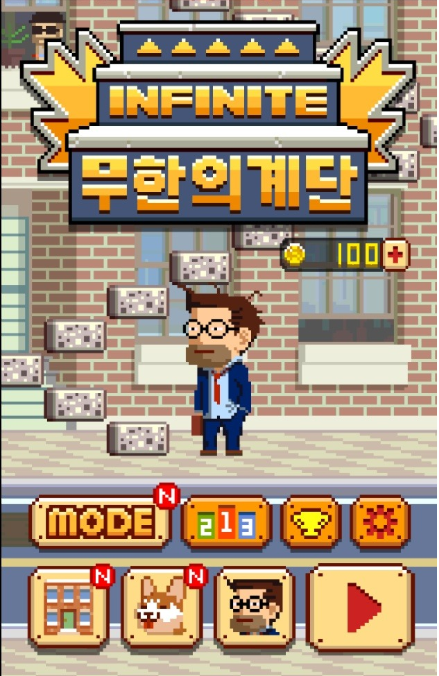
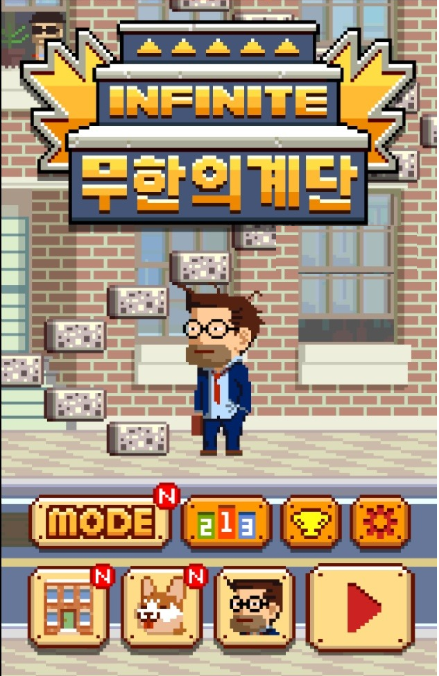
Simplify menu and add dash movement

Changed region(s): [[0.6219, 0.3107, 0.9476, 0.4038]]

diff --git a/public/styles.css b/public/styles.css
@@ -237,7 +237,7 @@ button:active {
   width: 68px;
   height: 126px;
   --flip: 1;
-  --hop-x: 0px;
+  --dash-flip: 1;
   --hop-half: 0px;
   --hop-rot: 0deg;
   transform: translateX(-50%);
@@ -256,57 +256,52 @@ button:active {
   filter: drop-shadow(3px 4px 0 rgba(37, 23, 31, 0.28));
   transform: scaleX(var(--flip));
   transform-origin: center bottom;
+  transition: opacity 60ms steps(1, end);
 }
 
-.player::before {
+.player::after {
   position: absolute;
-  left: -38px;
-  top: 38px;
-  z-index: 1;
-  width: 64px;
-  height: 88px;
-  background:
-    linear-gradient(135deg, transparent 0 20%, rgba(62, 224, 255, 0.8) 21% 30%, transparent 31% 38%, rgba(57, 133, 255, 0.76) 39% 48%, transparent 49%),
-    linear-gradient(135deg, transparent 0 42%, rgba(158, 255, 255, 0.8) 43% 59%, transparent 60%);
-  clip-path: polygon(84% 0, 100% 0, 44% 100%, 26% 100%);
+  left: -65px;
+  bottom: -34px;
+  z-index: 3;
+  width: 154px;
+  height: 190px;
+  background: url("assets/office-worker-dash.png") center / contain no-repeat;
   content: "";
   image-rendering: pixelated;
   opacity: 0;
-  transform: skewY(-12deg);
+  transform: scaleX(var(--dash-flip));
+  transform-origin: center bottom;
+  filter: drop-shadow(4px 5px 0 rgba(37, 23, 31, 0.26));
   pointer-events: none;
 }
 
 .player.face-left {
   --flip: 1;
+  --dash-flip: -1;
 }
 
 .player.face-right {
   --flip: -1;
+  --dash-flip: 1;
 }
 
 .player.hop-left {
-  animation: stair-hop 170ms steps(3, end);
+  animation: stair-hop 150ms steps(2, end);
 }
 
 .player.hop-right {
-  animation: stair-hop 170ms steps(3, end);
+  animation: stair-hop 150ms steps(2, end);
 }
 
-.player.face-left::before {
-  left: auto;
-  right: -38px;
-  transform: scaleX(-1) skewY(-12deg);
+.player.hop-left img,
+.player.hop-right img {
+  opacity: 0;
 }
 
-.player.face-right::before {
-  left: -38px;
-  right: auto;
-  transform: skewY(-12deg);
-}
-
-.player.hop-left::before,
-.player.hop-right::before {
-  animation: trail-flash 170ms steps(3, end);
+.player.hop-left::after,
+.player.hop-right::after {
+  animation: dash-sprite 150ms steps(2, end);
 }
 
 .player.fall {
@@ -318,12 +313,8 @@ button:active {
     transform: translateX(-50%) translateY(0) rotate(0);
   }
 
-  33% {
-    transform: translateX(calc(-50% + var(--hop-half))) translateY(-22px) rotate(var(--hop-rot));
-  }
-
-  66% {
-    transform: translateX(calc(-50% + var(--hop-x))) translateY(-36px) rotate(var(--hop-rot));
+  45% {
+    transform: translateX(calc(-50% + var(--hop-half))) translateY(-5px) rotate(var(--hop-rot));
   }
 
   100% {
@@ -331,15 +322,15 @@ button:active {
   }
 }
 
-@keyframes trail-flash {
+@keyframes dash-sprite {
   0%,
   100% {
     opacity: 0;
   }
 
-  33%,
-  66% {
-    opacity: 0.72;
+  20%,
+  80% {
+    opacity: 1;
   }
 }
 
@@ -428,11 +419,10 @@ input {
 
 .menu-actions {
   display: grid;
-  grid-template-columns: 1fr 1.25fr;
+  grid-template-columns: 1fr;
   gap: 10px;
 }
 
-.rank-menu-button,
 .play-button {
   min-height: 76px;
   border-color: #7e3328;
@@ -443,29 +433,6 @@ input {
     inset 0 -10px 0 #f08916,
     0 6px 0 #7e3328,
     0 9px 0 #2d1b1d;
-}
-
-.rank-menu-button {
-  color: #fff8c8;
-  font-size: 24px;
-  letter-spacing: 1px;
-  text-shadow:
-    2px 2px 0 #9a3218,
-    -1px -1px 0 #7e3328;
-}
-
-.rank-menu-button::before {
-  width: 28px;
-  height: 28px;
-  margin-bottom: 2px;
-  border: 4px solid #7e3328;
-  border-radius: 50%;
-  background:
-    radial-gradient(circle at 50% 38%, #fff4a3 0 25%, transparent 26%),
-    linear-gradient(135deg, transparent 0 26%, #de4a24 27% 38%, transparent 39% 100%),
-    linear-gradient(225deg, transparent 0 26%, #de4a24 27% 38%, transparent 39% 100%),
-    linear-gradient(180deg, #ffd83b, #f29a11);
-  content: "";
 }
 
 .play-button {

diff --git a/public/game.js b/public/game.js
@@ -19,8 +19,6 @@ const elements = {
   timerText: document.querySelector("#timerText"),
   stairLayer: document.querySelector("#stairLayer"),
   player: document.querySelector("#player"),
-  openRankings: document.querySelector("#openRankings"),
-  rankingPanel: document.querySelector("#rankingPanel"),
   rankingList: document.querySelector("#rankingList"),
   rankingStatus: document.querySelector("#rankingStatus"),
   refreshRankings: document.querySelector("#refreshRankings")
@@ -98,7 +96,6 @@ function setPlayerStep(direction, count) {
   elements.player.classList.toggle("face-left", direction === "left");
   elements.player.classList.toggle("face-right", direction === "right");
   const hopDistance = (direction === "left" ? -42 : 42) * count;
-  elements.player.style.setProperty("--hop-x", `${hopDistance}px`);
   elements.player.style.setProperty("--hop-half", `${hopDistance / 2}px`);
   elements.player.style.setProperty("--hop-rot", direction === "left" ? "-7deg" : "7deg");
   void elements.player.offsetWidth;
@@ -253,16 +250,6 @@ function renderRankings(rankings) {
   elements.rankingList.replaceChildren(fragment);
 }
 
-function openRankingPanel() {
-  void loadRankings("새로고침 완료");
-  elements.rankingPanel.classList.add("is-highlighted");
-  elements.rankingPanel.scrollIntoView({ behavior: "smooth", block: "start" });
-  elements.rankingPanel.focus({ preventScroll: true });
-  window.setTimeout(() => {
-    elements.rankingPanel.classList.remove("is-highlighted");
-  }, 900);
-}
-
 function handleKeydown(event) {
   if (event.key !== "ArrowLeft" && event.key !== "ArrowRight") return;
   event.preventDefault();
@@ -284,7 +271,6 @@ elements.restartButton.addEventListener("click", () => {
   elements.nickname.focus();
 });
 
-elements.openRankings.addEventListener("click", openRankingPanel);
 elements.refreshRankings.addEventListener("click", () => loadRankings());
 window.addEventListener("keydown", handleKeydown);
 window.addEventListener("resize", renderStairs);

diff --git a/public/index.html b/public/index.html
@@ -34,7 +34,6 @@
                 <input id="nickname" name="nickname" maxlength="16" autocomplete="off" placeholder="이름을 입력하세요" required />
               </div>
               <div class="menu-actions">
-                <button id="openRankings" class="rank-menu-button" type="button" aria-controls="rankingPanel">RANK</button>
                 <button class="play-button" type="submit" aria-label="게임 시작">
                   <span class="sr-only">게임 시작</span>
                 </button>